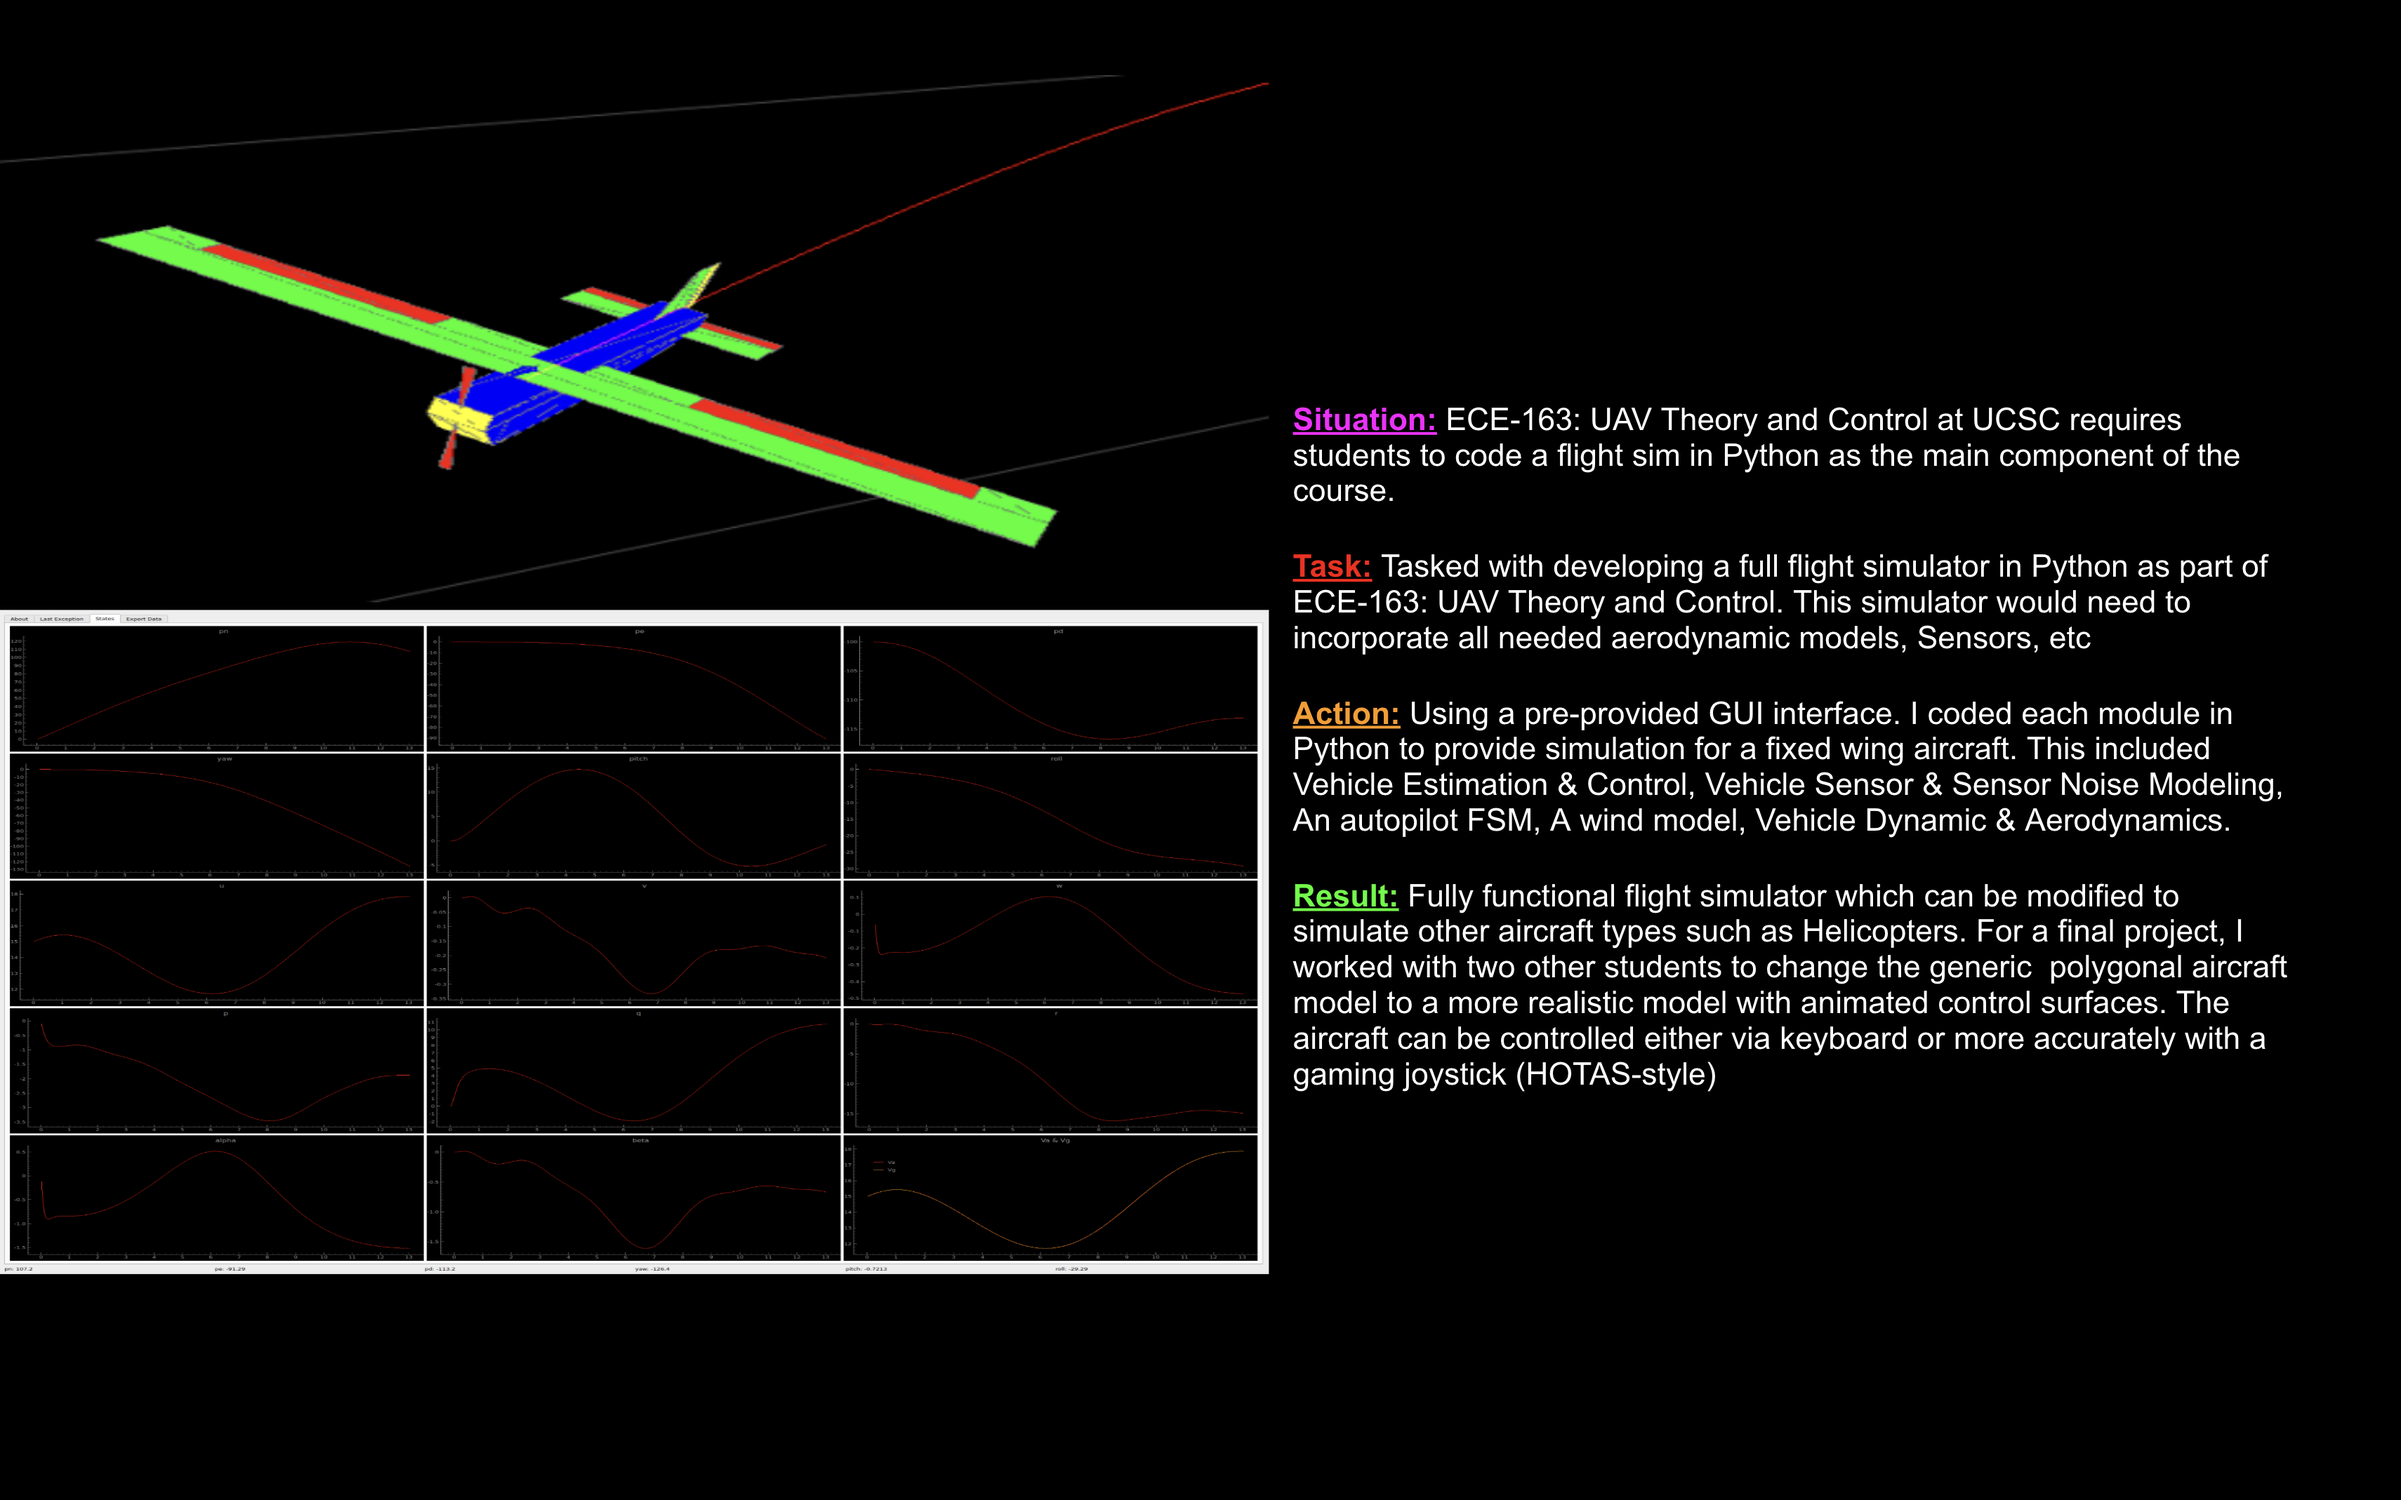
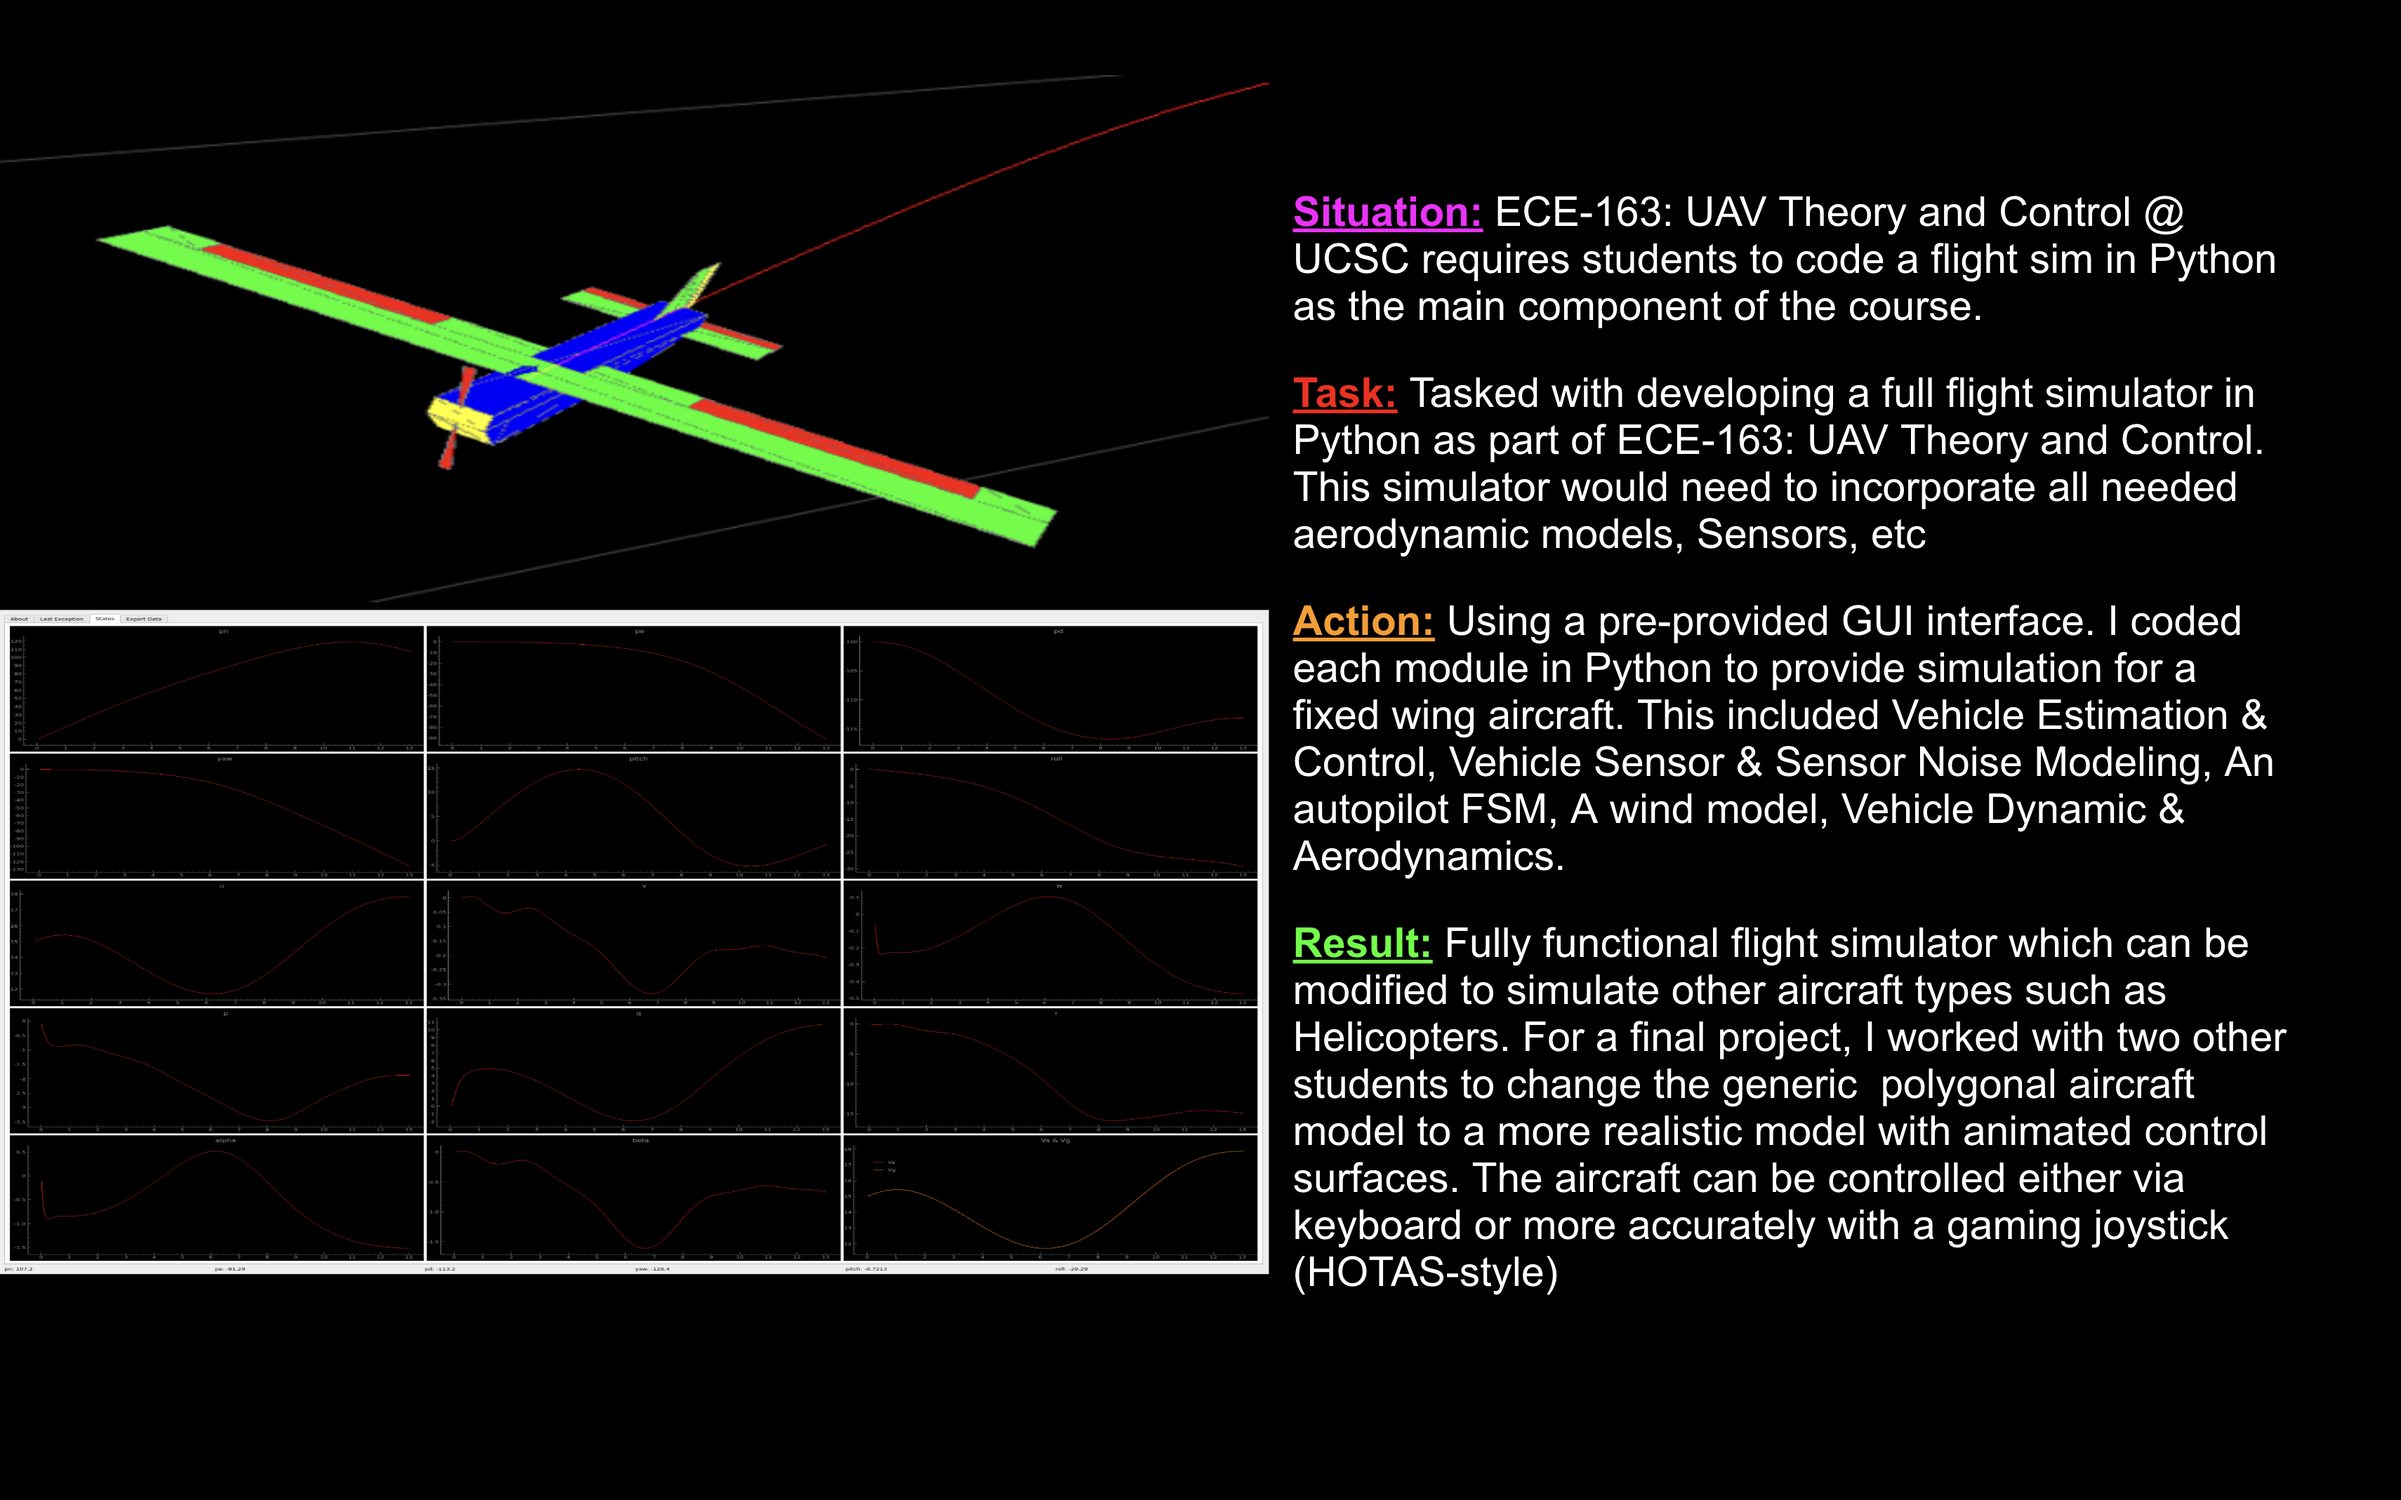
Updated Flight Sim slides and uploaded ground bounce project slides

Changed region(s): [[0.5269, 0.247, 0.9608, 0.8644], [0.5269, 0.1235, 0.9608, 0.2161]]

diff --git a/portfolio.html b/portfolio.html
@@ -109,11 +109,15 @@
 
                 <h1 class = "title_portfolio">Ground Bounce PCB</h1>
 
+                    <div class = "content_cont" style="position: relative; width: 100%; height: 0; padding-top: 56.2500%;
+            padding-bottom: 0; box-shadow: 0 2px 8px 0 rgba(63,69,81,0.16); margin-top: 1.6em; margin-bottom: 0.9em; overflow: hidden;
+            border-radius: 8px; will-change: transform;">
+
+                         <img style="position: absolute; width: 100%; height: 100%; top: 0; left: 0; border: none; padding: 0;margin: 0;" src="pcb.png">
+
+                    </div>
+
                 
-
-
-
-
             </div>
 
 
